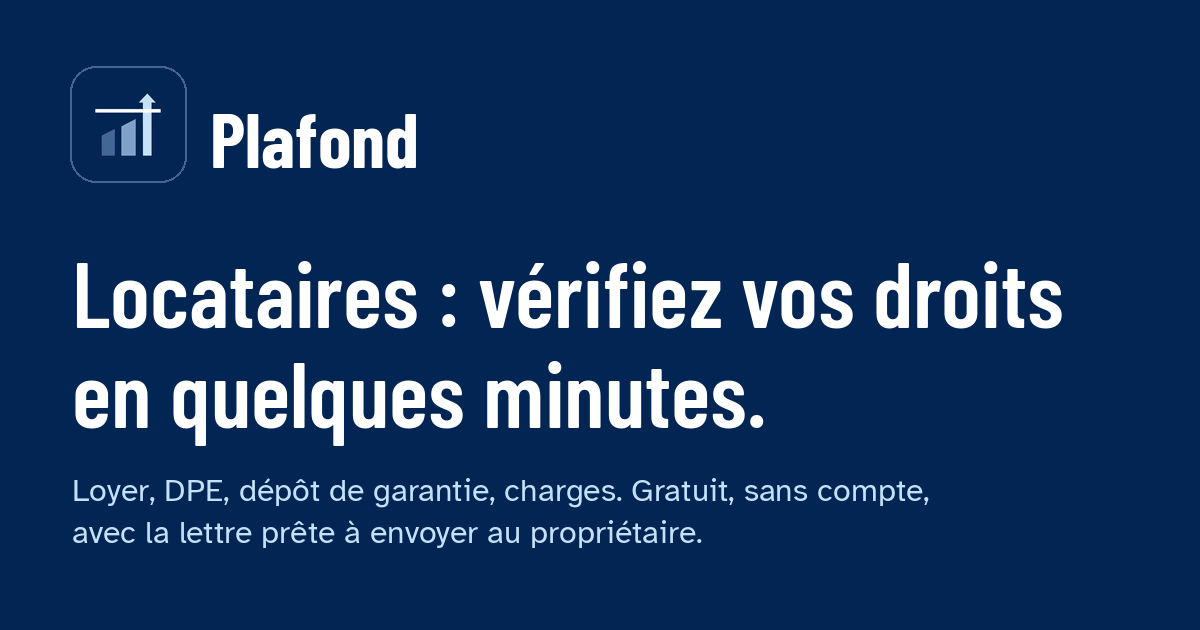
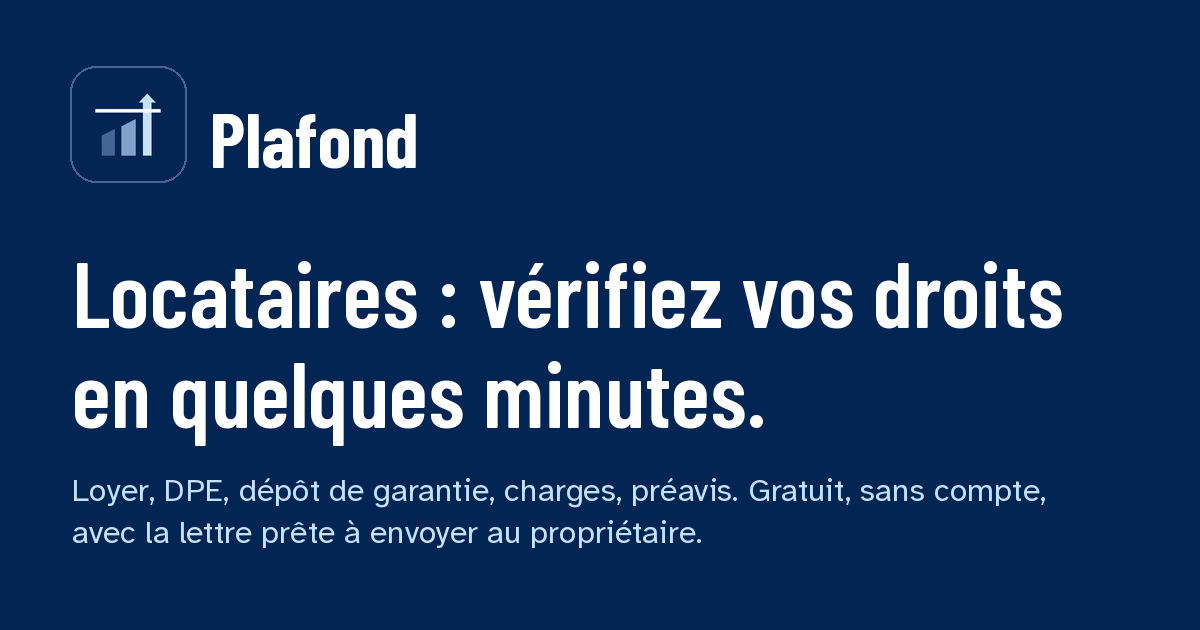
refresh the descriptions

diff --git a/apps/web/__tests__/manifest.test.ts b/apps/web/__tests__/manifest.test.ts
@@ -26,3 +26,11 @@ test("phones get the icon sizes they ask for, one of them safe to crop into a ci
     expect(icons.map((icon) => icon.sizes)).toEqual(expect.arrayContaining(["192x192", "512x512"]));
     expect(icons.some((icon) => icon.purpose === "maskable")).toBe(true);
 });
+
+test("an installed app describes every check, not only the rent in Paris", () =>
+{
+    for (const check of ["loyer", "DPE", "dépôt de garantie", "charges", "préavis"])
+    {
+        expect(app.description, check).toContain(check);
+    }
+});

diff --git a/apps/web/__tests__/guides.test.tsx b/apps/web/__tests__/guides.test.tsx
@@ -53,7 +53,7 @@ test("the deposit guide's worked example matches the rule it explains", () =>
     expect(said).toContain("deux périodes, soit 240\u00A0€");
 });
 
-test("the first screen lists the four guides, and each check's first screen links to its own", async () =>
+test("the first screen lists every guide, and each check's first screen links to its own", async () =>
 {
     const { Home } = await import("../components/Home");
     const { AddressStep } = await import("../components/AddressStep");

diff --git a/apps/web/app/manifest.ts b/apps/web/app/manifest.ts
@@ -9,7 +9,7 @@ export default function manifest(): MetadataRoute.Manifest
     return {
         name: "Plafond",
         short_name: "Plafond",
-        description: "Vérifiez si votre loyer à Paris dépasse le plafond légal.",
+        description: "Vérifications gratuites pour les locataires\u00A0: loyer encadré, DPE, dépôt de garantie, charges et préavis.",
         lang: "fr",
         start_url: "./",
         scope: "./",

diff --git a/README.md b/README.md
@@ -24,14 +24,16 @@ The City's table stops at 2025. The rents in force from 1 July 2026 are copied f
 
 `db/seed/paris-decrees.json` lists the prefect's decrees behind each year of rates, with the day each takes effect and ends, and the court decisions that concern them, each with its source. It is kept by hand from the pages of the DRIHL Île-de-France.
 
+Reference rents for Lyon and Villeurbanne come from the open data of the Métropole de Lyon on data.grandlyon.com, one dataset for each year of the prefect's decree (`car_care.carencadrmtloyer_2022_2023` and the years after it). `db/seed/lyon-2022-2023.csv`, `db/seed/lyon-2024-2025.geojson` and `db/seed/lyon-2025-2026.csv` are those files as the Métropole published them, each year in its own layout; the import reads all three. Each holds, for every small statistical area (IRIS), its zone and its rents; the latest file that carries the outlines of the areas is the one the app uses to find the zone of an address. `db/seed/lyon-decrees.json` lists the decrees of the prefect of the Rhône, kept by hand from the prefecture's page on rent control, with the judgment that annulled the 2023 decree.
+
 ## Status
 
-The app is live at https://maksim-miliutin.github.io/Plafond/ and can be added to the home screen of a phone. It walks from the address to the letter and shows only what the domain calculates. Until its figures are checked against the official reference rent tool, it is a trial version.
+The app is live at https://maksim-miliutin.com/Plafond/ and can be added to the home screen of a phone. It walks from the address to the letter and shows only what the domain calculates. The rents of Paris were checked against the official map of reference rents of the DRIHL Île-de-France; those of Lyon are still to be checked against the Métropole's own simulator.
 
 ## Layout
 
 - `packages/domain`: the calculation, the letter and the rules of law, in plain TypeScript with no framework, so that the web app and a later mobile app share them.
-- `packages/import`: reads the published tables (the City's rents, the annexes of the decrees, the outlines of the quartiers) and checks them line by line.
+- `packages/import`: reads the published tables (the rents of Paris and Lyon, the annexes of the decrees, the outlines of the quartiers and of Lyon's areas) and checks them line by line.
 - `packages/address`: the client of the Géoplateforme geocoder.
 - `packages/ademe`: the client of the ADEME open data on energy diagnoses.
 - `apps/web`: the Next.js app, exported as plain files and published on GitHub Pages; `e2e` holds the tests that run in real browsers, iPhones included.
